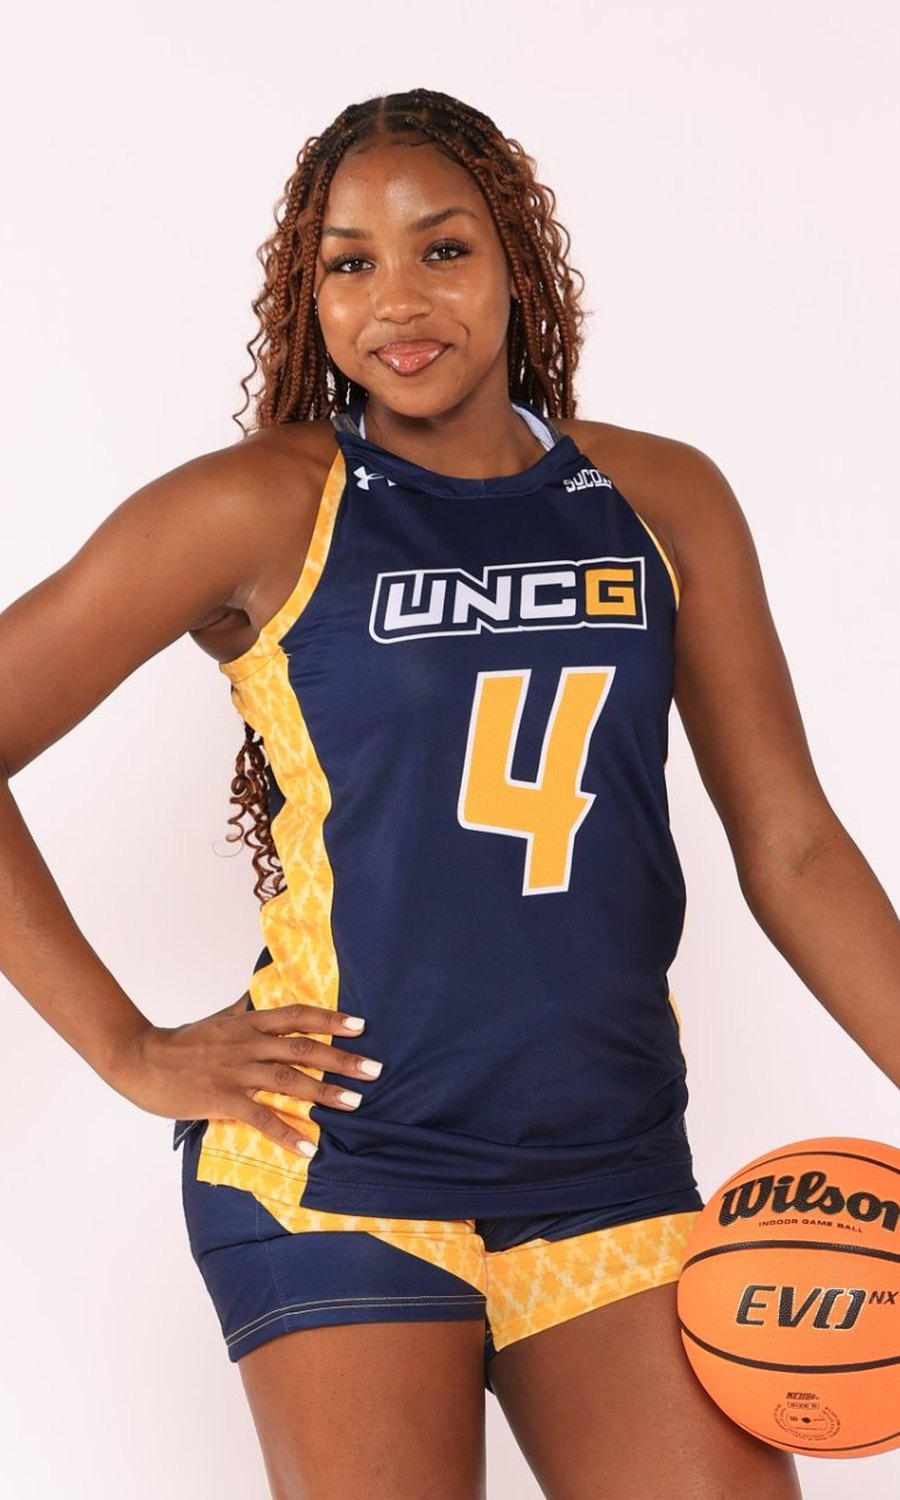
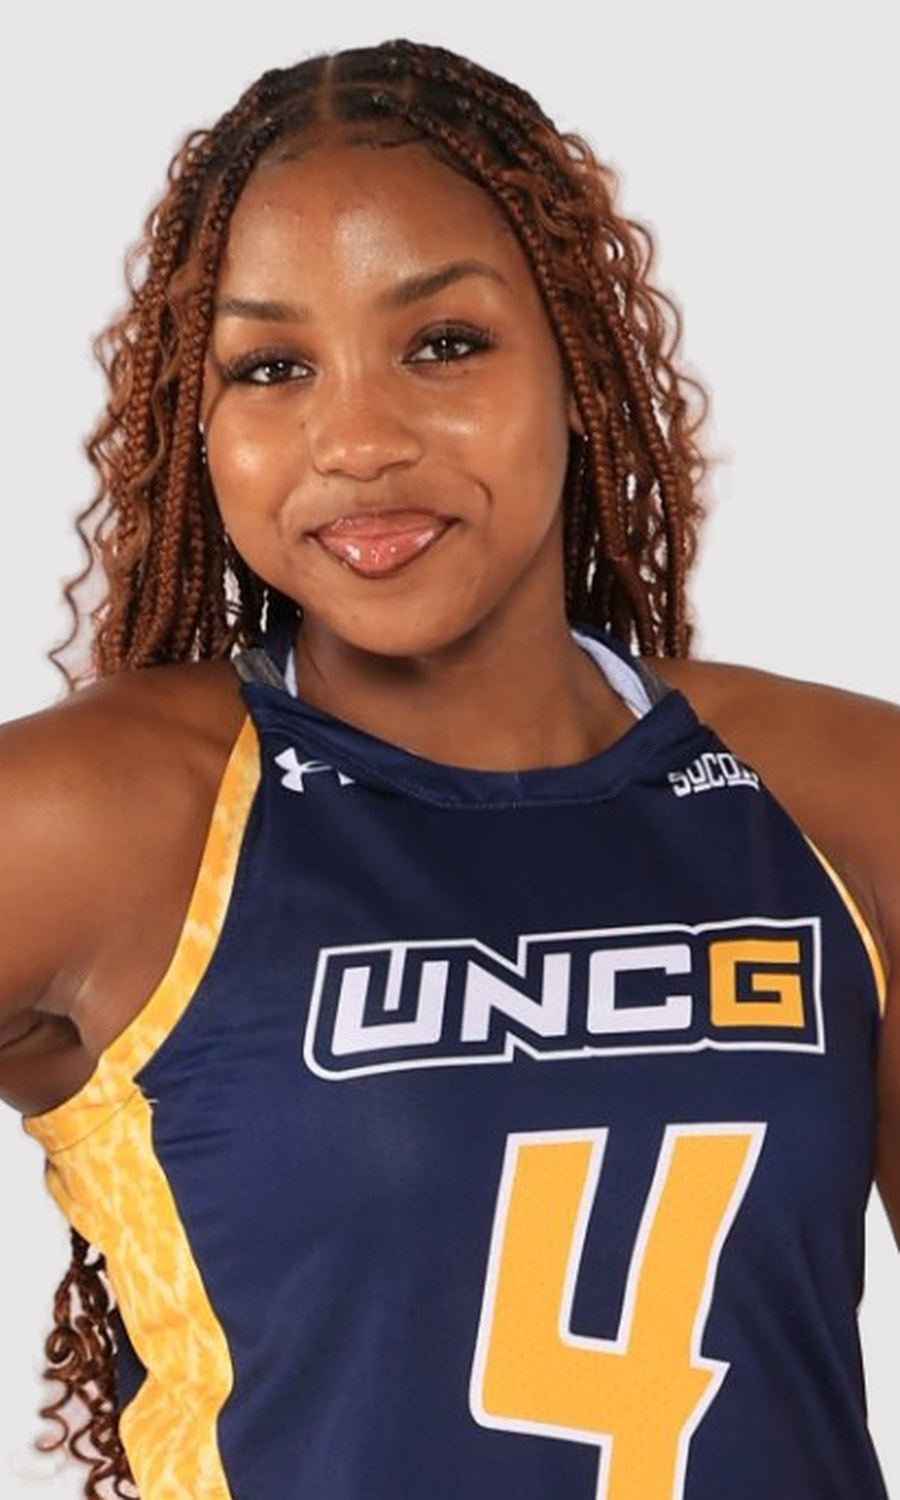
Remove Spencer from coach pages; reframe Jaila headshot to match
Claude-Session: https://claude.ai/code/session_012KRnHYw8MwYmdU7eEJSQb6

diff --git a/about.html b/about.html
@@ -431,32 +431,10 @@ src="https://www.facebook.com/tr?id=846020845059569&ev=PageView&noscript=1"
         </div>
       </div>
 
-      <div class="coach-card coach-card--2">
-        <div class="coach-card-frame">
-          <div class="coach-card-photo photo">
-            <img src="images/coach-spencer-richardson.jpg" alt="Spencer Richardson, Basketball Development Specialist at The Courts" width="900" height="1500" loading="lazy" decoding="async">
-            <span class="coach-card-corner"></span>
-          </div>
-          <div class="coach-card-body">
-            <h4 class="coach-card-name">Spencer Richardson</h4>
-            <p class="coach-card-title">Basketball Development Specialist</p>
-            <p class="coach-card-teaser">A Nashville native and founder of All-Around-Game Basketball, Spencer has spent more than 15 years developing players from the youth level through the professional ranks. At The Courts he joins us for select basketball training and specialty programming.</p>
-            <div class="coach-card-bio" id="bio-spencer-richardson">
-              <p>A Nashville native and founder of All-Around-Game Basketball, Spencer Richardson has spent more than 15 years developing basketball players from the youth level through college and the professional ranks.</p>
-              <p>Spencer starred at Nashville&rsquo;s Maplewood High School, helping lead the program to back-to-back state tournament appearances while earning All-District and All-Region honors as a junior and senior. He averaged 19.1 points per game as a senior while shooting 45 percent from three-point range, then continued his playing career at Shawnee Community College before returning home to Nashville and turning his focus to player development.</p>
-              <p>Since then, Spencer has built his reputation around long-term basketball development, working with athletes on the skill, decision-making, confidence, and discipline needed to continue progressing.</p>
-              <p>At The Courts, Spencer joins us for select basketball training and specialty programming, giving athletes access to his experience and proven approach to developing complete players.</p>
-            </div>
-            <button class="coach-card-more" type="button" aria-expanded="false" aria-controls="bio-spencer-richardson">+ More</button>
-            <p class="coach-card-focus">Basketball Development &middot; Shooting &middot; Ball Handling &middot; Guard Skills &middot; Game IQ &middot; Competitive Play</p>
-          </div>
-        </div>
-      </div>
-
       <div class="coach-card coach-card--5">
         <div class="coach-card-frame">
           <div class="coach-card-photo photo">
-            <img src="images/coach-jaila-lee.jpg?v=2" alt="Jaila Lee, Basketball Coach at The Courts" width="900" height="1500" loading="lazy" decoding="async">
+            <img src="images/coach-jaila-lee.jpg?v=3" alt="Jaila Lee, Basketball Coach at The Courts" width="900" height="1500" loading="lazy" decoding="async">
             <span class="coach-card-corner"></span>
           </div>
           <div class="coach-card-body">
@@ -575,12 +553,12 @@ src="https://www.facebook.com/tr?id=846020845059569&ev=PageView&noscript=1"
   </style>
 
   <style>
-    .coaches-board { display: grid; grid-template-columns: repeat(6, minmax(0, 1fr)); gap: 22px; align-items: stretch; max-width: 1340px; margin: 0 auto; }
+    .coaches-board { display: grid; grid-template-columns: repeat(5, minmax(0, 1fr)); gap: 22px; align-items: stretch; max-width: 1340px; margin: 0 auto; }
     .coaches-board[hidden] { display: none; }
     .coach-pill { display: flex; justify-content: center; align-items: flex-end; padding-bottom: 20px; }
-    .coach-pill--bb { grid-column: 1 / 4; grid-row: 1; }
-    .coach-pill--vb { grid-column: 4 / 6; grid-row: 1; }
-    .coach-pill--pf { grid-column: 6 / 7; grid-row: 1; }
+    .coach-pill--bb { grid-column: 1 / 3; grid-row: 1; }
+    .coach-pill--vb { grid-column: 3 / 5; grid-row: 1; }
+    .coach-pill--pf { grid-column: 5 / 6; grid-row: 1; }
     .coach-group-pill {
       position: relative; display: inline-flex; align-items: center; gap: 9px;
       background: var(--black); color: var(--white); font-family: var(--font-display); font-weight: 900;
@@ -591,11 +569,10 @@ src="https://www.facebook.com/tr?id=846020845059569&ev=PageView&noscript=1"
 
     .coach-card { grid-row: 2; height: 100%; }
     .coach-card--1 { grid-column: 1; }
-    .coach-card--2 { grid-column: 2; }
-    .coach-card--5 { grid-column: 3; }
-    .coach-card--6 { grid-column: 4; }
-    .coach-card--4 { grid-column: 5; }
-    .coach-card--3 { grid-column: 6; }
+    .coach-card--5 { grid-column: 2; }
+    .coach-card--6 { grid-column: 3; }
+    .coach-card--4 { grid-column: 4; }
+    .coach-card--3 { grid-column: 5; }
 
     .coach-card-frame {
       position: relative; height: 100%; display: flex; flex-direction: column;
@@ -629,8 +606,7 @@ src="https://www.facebook.com/tr?id=846020845059569&ev=PageView&noscript=1"
       .coaches-board { grid-template-columns: repeat(2, minmax(0, 1fr)); max-width: 680px; gap: 28px; }
       .coach-pill--bb { grid-column: 1 / 3; grid-row: 1; padding-bottom: 8px; }
       .coach-card--1 { grid-column: 1; grid-row: 2; }
-      .coach-card--2 { grid-column: 2; grid-row: 2; }
-      .coach-card--5 { grid-column: 1 / 3; grid-row: 3; max-width: calc(50% - 14px); margin: 0 auto; }
+      .coach-card--5 { grid-column: 2; grid-row: 2; }
       .coach-pill--vb { grid-column: 1 / 3; grid-row: 4; padding-bottom: 8px; padding-top: 20px; }
       .coach-card--6 { grid-column: 1; grid-row: 5; }
       .coach-card--4 { grid-column: 2; grid-row: 5; }
@@ -639,12 +615,11 @@ src="https://www.facebook.com/tr?id=846020845059569&ev=PageView&noscript=1"
     }
     @media (max-width: 640px) {
       .coaches-board { grid-template-columns: minmax(0, 1fr); max-width: 340px; }
-      .coach-pill--bb, .coach-card--1, .coach-card--2, .coach-card--5, .coach-pill--vb, .coach-card--6, .coach-card--4, .coach-pill--pf, .coach-card--3 { grid-column: 1; }
-      .coach-card--5, .coach-card--3 { max-width: none; margin: 0; }
+      .coach-pill--bb, .coach-card--1, .coach-card--5, .coach-pill--vb, .coach-card--6, .coach-card--4, .coach-pill--pf, .coach-card--3 { grid-column: 1; }
+      .coach-card--3 { max-width: none; margin: 0; }
       .coach-pill--bb { grid-row: 1; }
       .coach-card--1 { grid-row: 2; }
-      .coach-card--2 { grid-row: 3; }
-      .coach-card--5 { grid-row: 4; }
+      .coach-card--5 { grid-row: 3; }
       .coach-pill--vb { grid-row: 5; padding-top: 20px; }
       .coach-card--6 { grid-row: 6; }
       .coach-card--4 { grid-row: 7; }

diff --git a/private-coaching.html b/private-coaching.html
@@ -496,16 +496,6 @@ src="https://www.facebook.com/tr?id=846020845059569&ev=PageView&noscript=1"
                 <p class="pt-coach-bio">Bio coming soon.</p>
               </div>
             </div>
-            <div class="pt-coach-card reveal">
-              <div class="pt-coach-photo">
-                <div class="pt-coach-photo-placeholder"><span>Photo Coming Soon</span></div>
-              </div>
-              <div>
-                <h3 class="pt-coach-name">Spencer Richardson</h3>
-                <p class="pt-coach-title">Senior Performance Trainer</p>
-                <p class="pt-coach-bio">Bio coming soon.</p>
-              </div>
-            </div>
           </div>
         </div>
 
